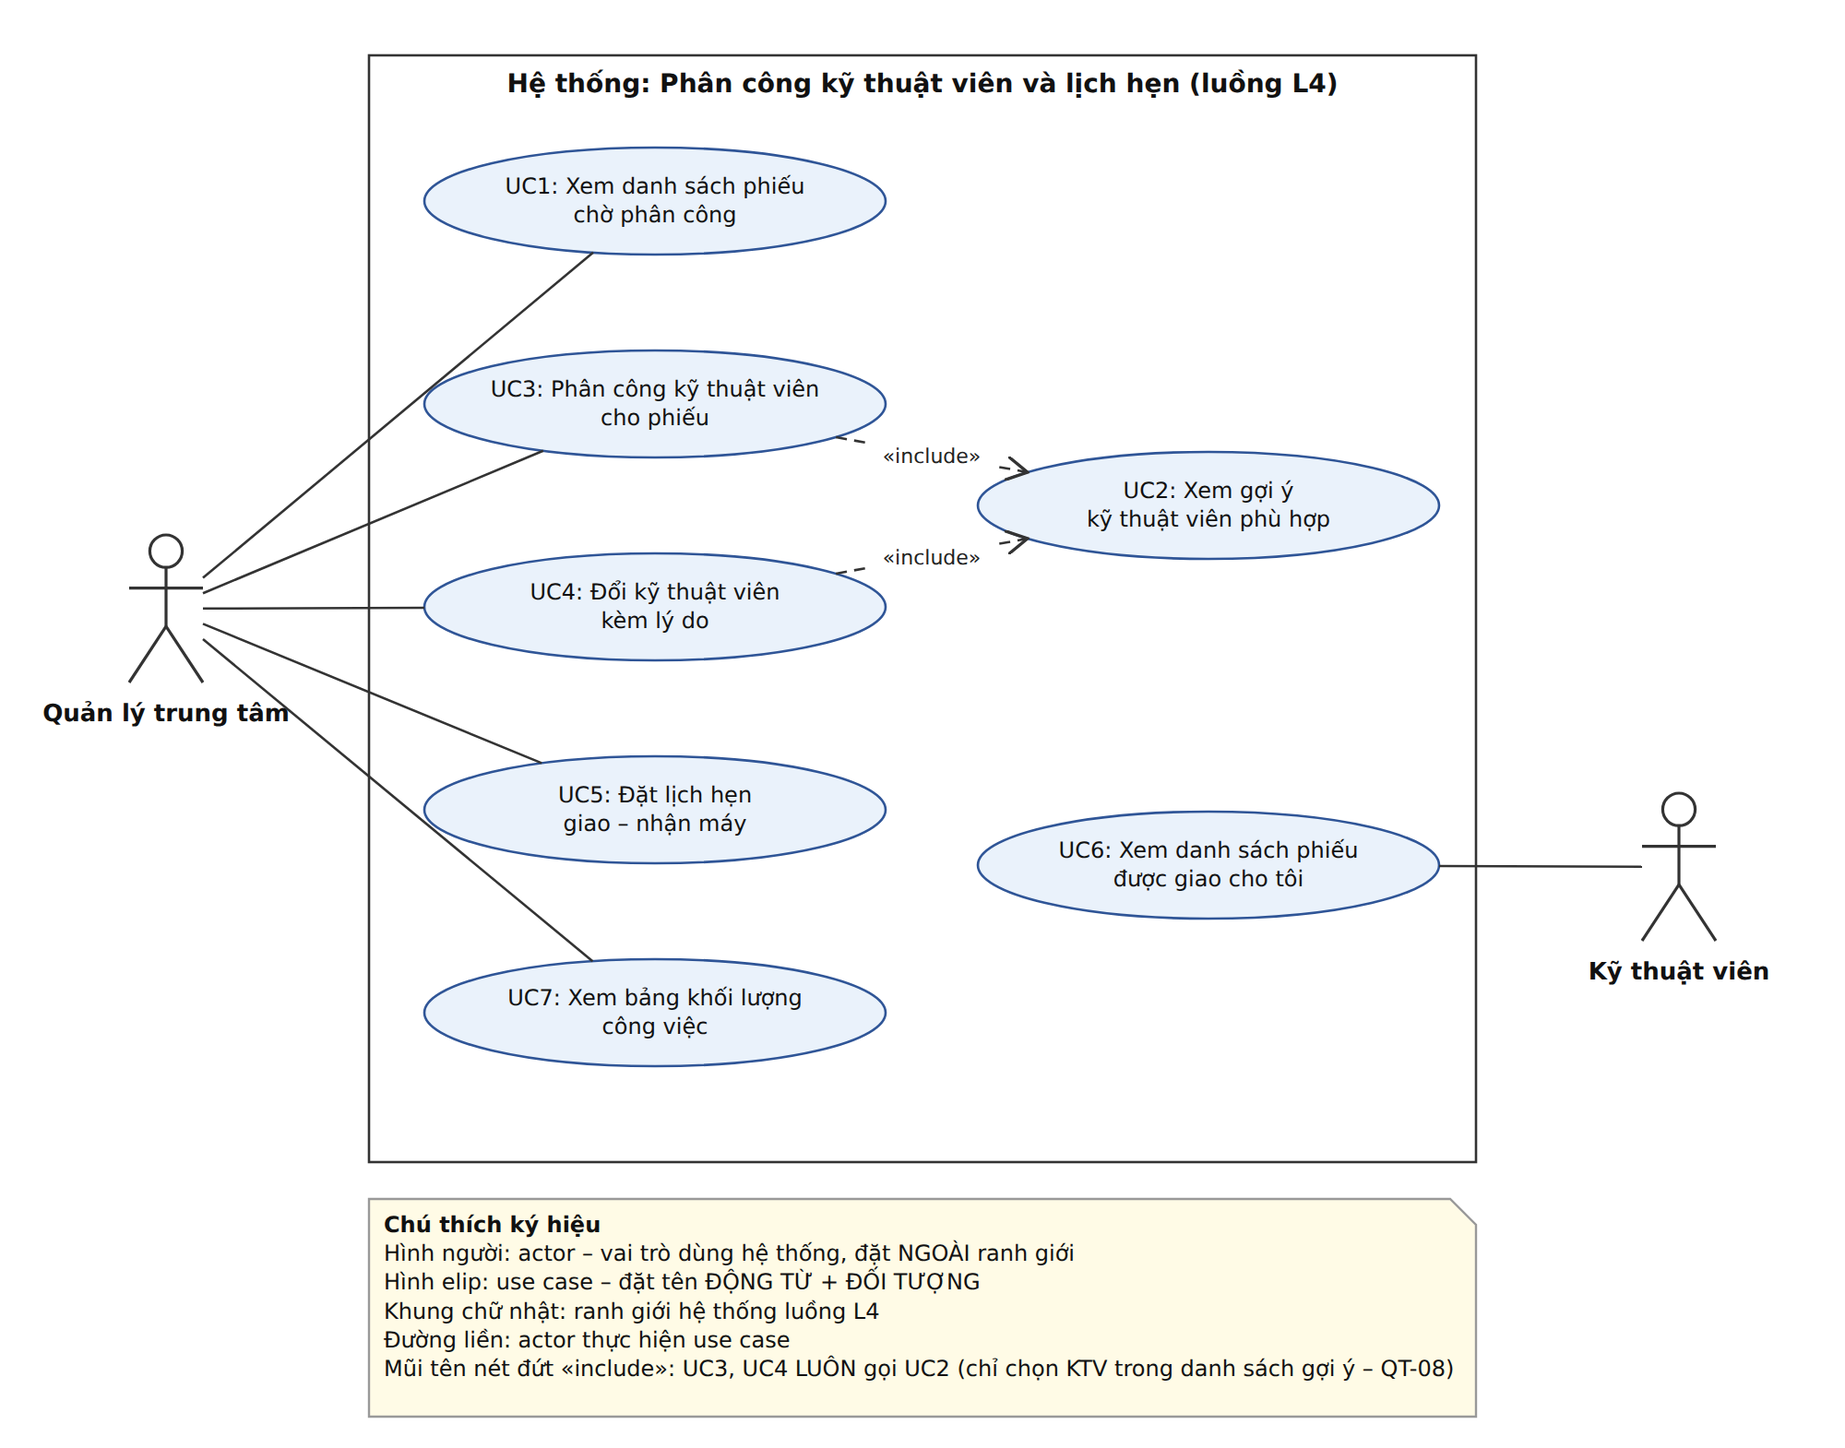
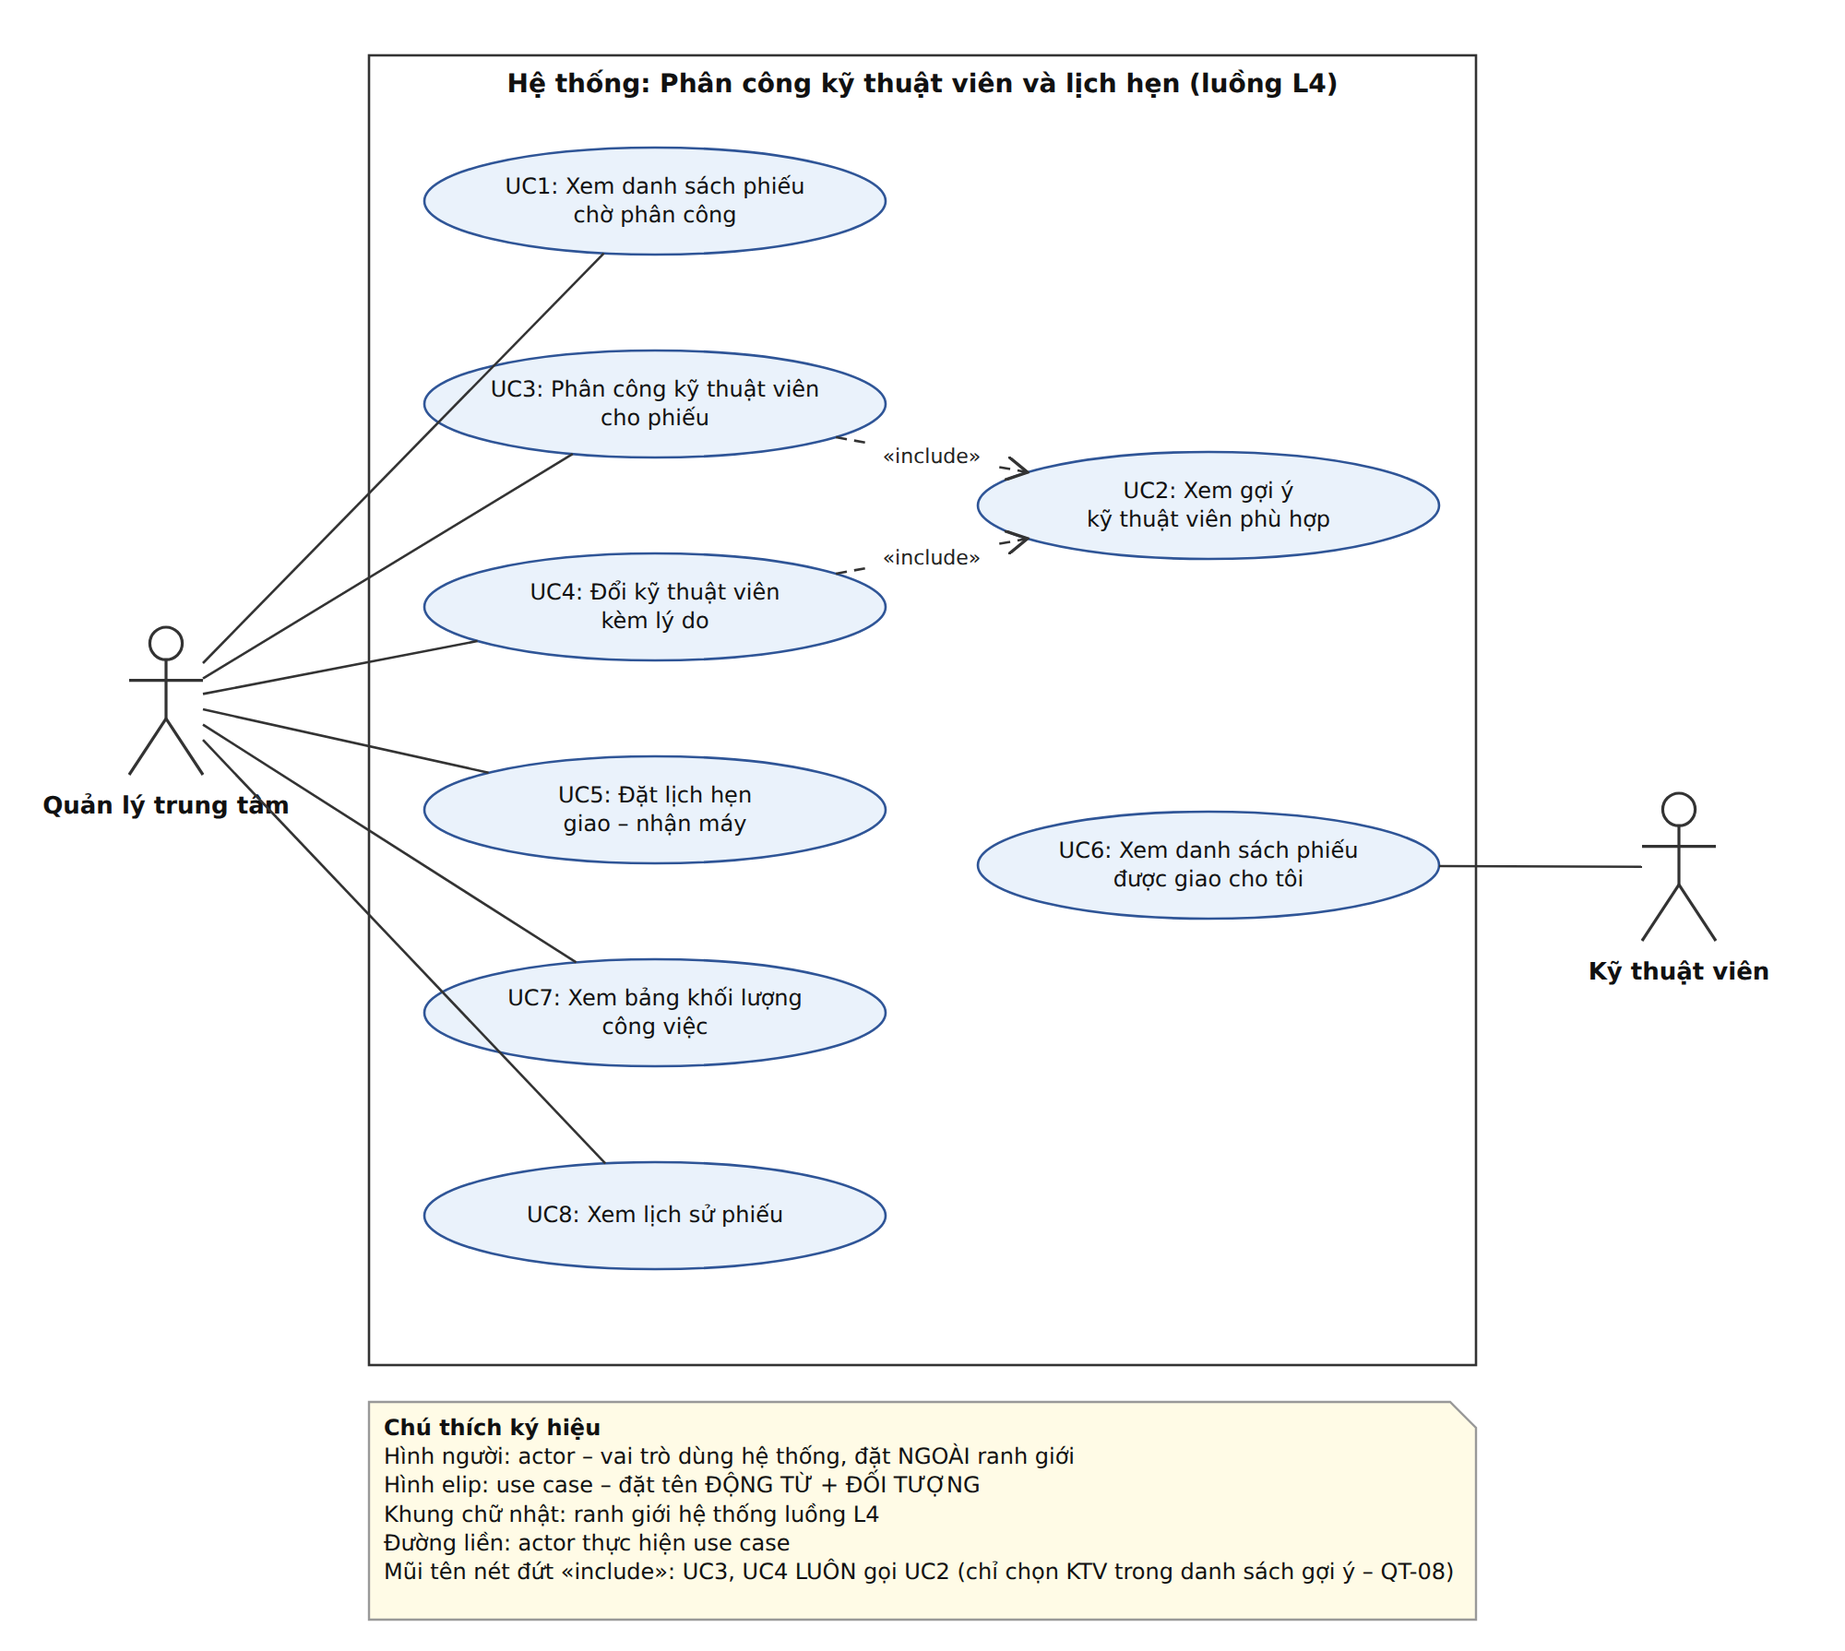
docs: complete SRS, use case and API contract for Buoi 4

diff --git a/docs/srs.md b/docs/srs.md
@@ -1,6 +1,6 @@
 # Bản SRS rút gọn – Luồng L4: Phân công kỹ thuật viên và lịch hẹn
 
-Nguyễn Thái Đức – MSSV 2374802010117 – Track SE · Phiên bản 1.1 · Rút gọn theo tinh thần ISO/IEC/IEEE 29148 (không tuân thủ đầy đủ)
+Nguyễn Thái Đức – MSSV 2374802010117 – Track SE · Phiên bản 1.2 · Rút gọn theo tinh thần ISO/IEC/IEEE 29148 (không tuân thủ đầy đủ)
 
 ## 1. Giới thiệu và phạm vi
 
@@ -37,7 +37,7 @@ W8 đăng nhập và phân quyền đầy đủ (giả lập người dùng bằ
 
 | Actor | Được làm | KHÔNG được làm |
 |---|---|---|
-| **Quản lý trung tâm** | Xem phiếu chờ phân công; xem gợi ý; phân công và đổi kỹ thuật viên; đặt lịch hẹn; xem khối lượng công việc – chỉ trong trung tâm mình | Xem hoặc phân công phiếu của trung tâm khác (QT-14); xóa phiếu, xóa lịch hẹn (QT-13) |
+| **Quản lý trung tâm** | Xem phiếu chờ phân công; xem gợi ý; phân công và đổi kỹ thuật viên; đặt lịch hẹn; xem khối lượng công việc; xem lịch sử phiếu – chỉ trong trung tâm mình | Xem hoặc phân công phiếu của trung tâm khác (QT-14); xóa phiếu, xóa lịch hẹn (QT-13) |
 | **Kỹ thuật viên** | Xem danh sách phiếu đang mở được giao cho chính mình | Tự nhận phiếu; chuyển phiếu cho người khác; xem phiếu của người khác |
 
 Khách hàng là người hưởng lợi, không thao tác trực tiếp: quản lý đặt lịch hẹn thay khách.
@@ -53,6 +53,7 @@ Khách hàng là người hưởng lợi, không thao tác trực tiếp: quản
 | **FR5** | Hệ thống cho phép tạo lịch hẹn GIAO_MAY hoặc TRA_MAY cho phiếu đã có kỹ thuật viên và từ chối lịch hẹn giao nhau với lịch hẹn DA_HEN khác của cùng kỹ thuật viên. |
 | **FR6** | Hệ thống hiển thị cho kỹ thuật viên các phiếu đang mở được giao cho họ, sắp theo hạn cam kết, đánh dấu phiếu sắp quá hạn và quá hạn. |
 | **FR7** | Hệ thống hiển thị bảng khối lượng công việc của trung tâm: mỗi kỹ thuật viên có số phiếu đang mở, số phiếu sắp quá hạn, số phiếu quá hạn tại thời điểm xem. |
+| **FR8** | Hệ thống hiển thị lịch sử của một phiếu theo thời gian: mỗi dòng gồm trạng thái trước/sau, kỹ thuật viên trước/sau, lý do, thời điểm và người thực hiện. |
 
 | Mã | User Story | MoSCoW |
 |---|---|---|
@@ -60,15 +61,18 @@ Khách hàng là người hưởng lợi, không thao tác trực tiếp: quản
 | **US2** | Là **quản lý trung tâm**, tôi muốn xem gợi ý kỹ thuật viên phù hợp với nhóm sự cố của phiếu để không giao sai người phải chuyển qua chuyển lại. | MUST |
 | **US3** | Là **quản lý trung tâm**, tôi muốn phân công một phiếu cho một kỹ thuật viên để biết chắc ai đang giữ phiếu từ lúc nào. | MUST |
 | **US4** | Là **quản lý trung tâm**, tôi muốn đổi kỹ thuật viên của phiếu kèm lý do để việc chuyển giao có vết, không mất trách nhiệm. | SHOULD |
-| **US5** | Là **quản lý trung tâm**, tôi muốn đặt lịch hẹn giao – nhận máy và được chặn khi trùng lịch kỹ thuật viên để không phải gọi hẹn lại khách. | MUST |
+| **US5** | Là **quản lý trung tâm**, tôi muốn đặt lịch hẹn giao – nhận máy không trùng với lịch hẹn khác của kỹ thuật viên để không phải gọi hẹn lại khách. | SHOULD |
 | **US6** | Là **kỹ thuật viên**, tôi muốn xem danh sách phiếu được giao cho tôi sắp theo hạn cam kết để ưu tiên xử lý phiếu sắp quá hạn trước. | SHOULD |
 | **US7** | Là **quản lý trung tâm**, tôi muốn xem số phiếu đang giữ và số phiếu quá hạn của từng kỹ thuật viên để chia việc đều và không phải đếm tay cuối tháng. | SHOULD |
+| **US8** | Là **quản lý trung tâm**, tôi muốn xem lịch sử của một phiếu (ai phân công, đổi kỹ thuật viên khi nào, vì sao) để truy được trách nhiệm khi phiếu bị quá hạn. | COULD |
 
-**Tiêu chí chấp nhận cho story MUST (Given – When – Then):**
-- **US1** – AC1: GIVEN 3 phiếu MOI hạn 10:00, 08:00, 15:00, WHEN quản lý mở danh sách, THEN thứ tự hiển thị là 08:00, 10:00, 15:00. AC2: GIVEN phiếu MOI của trung tâm khác, WHEN mở danh sách, THEN phiếu đó không xuất hiện.
-- **US2** – AC1: GIVEN phiếu MAN_HINH, KTV A (tay nghề 4, 2 phiếu mở), B (5, 2), C (3, 5), D (2, 0), WHEN xem gợi ý, THEN thứ tự B, A, C, không có D. AC2: GIVEN không ai thỏa điều kiện, WHEN xem gợi ý, THEN danh sách rỗng kèm thông báo "Không có kỹ thuật viên đủ tay nghề tại trung tâm".
-- **US3** – AC1: GIVEN phiếu MOI và KTV A trong danh sách gợi ý, WHEN xác nhận phân công, THEN phiếu chuyển DA_PHAN_CONG, có 1 dòng lịch sử MOI → DA_PHAN_CONG. AC2: GIVEN phiếu đã DA_PHAN_CONG, WHEN phân công lần nữa, THEN bị từ chối. AC3: GIVEN KTV không thỏa QT-08, WHEN phân công, THEN bị từ chối, phiếu giữ MOI.
-- **US5** – AC1: GIVEN KTV A có lịch hẹn 09:00–09:30, WHEN tạo lịch hẹn 09:15–09:45, THEN bị từ chối và hiển thị lịch hẹn trùng. AC2: GIVEN khung 10:00–10:30 trống, WHEN tạo lịch hẹn TRA_MAY, THEN lưu ở trạng thái DA_HEN. AC3: GIVEN phiếu MOI chưa có KTV, WHEN tạo lịch hẹn, THEN bị từ chối.
+**Lý do xếp mức:** 3 story MUST (US1, US2, US3) tạo thành luồng tối thiểu *thấy phiếu → được gợi ý → phân công*; thiếu một story thì L4 không chạy được. US5 để SHOULD vì có cách làm tạm (quản lý gọi điện hẹn khách như hiện nay – Mục 6.1 bước 11). US8 để COULD vì chỉ đọc dữ liệu đã ghi, không ảnh hưởng luồng chính.
+
+**Tiêu chí chấp nhận (Given – When – Then)** cho 3 story MUST, kèm US5 vì có quy tắc chặn trùng lịch cần kiểm thử. Tổng 10 tiêu chí, trong đó 6 tiêu chí *(ngoại lệ)*; mỗi story MUST có ít nhất 1 tiêu chí ngoại lệ:
+- **US1** – AC1: GIVEN trung tâm Tân Bình có 3 phiếu MOI hạn 10:00, 08:00, 15:00, WHEN chị Trâm (quản lý) mở danh sách, THEN thứ tự hiển thị là 08:00, 10:00, 15:00. AC2 *(ngoại lệ)*: GIVEN có phiếu MOI của trung tâm Quận 10, WHEN quản lý trung tâm Tân Bình mở danh sách, THEN phiếu đó không xuất hiện (QT-14).
+- **US2** – AC1: GIVEN phiếu MAN_HINH, KTV A (tay nghề 4, 2 phiếu mở), B (5, 2), C (3, 5), D (2, 0), WHEN xem gợi ý, THEN thứ tự B, A, C, không có D. AC2 *(ngoại lệ)*: GIVEN không ai thỏa điều kiện, WHEN xem gợi ý, THEN danh sách rỗng kèm thông báo "Không có kỹ thuật viên đủ tay nghề tại trung tâm".
+- **US3** – AC1: GIVEN phiếu MOI và KTV A trong danh sách gợi ý, WHEN xác nhận phân công, THEN phiếu chuyển DA_PHAN_CONG, có 1 dòng lịch sử MOI → DA_PHAN_CONG. AC2 *(ngoại lệ)*: GIVEN phiếu đã DA_PHAN_CONG, WHEN phân công lần nữa, THEN bị từ chối. AC3 *(ngoại lệ)*: GIVEN KTV không thỏa QT-08, WHEN phân công, THEN bị từ chối, phiếu giữ MOI.
+- **US5** – AC1 *(ngoại lệ)*: GIVEN KTV A có lịch hẹn 09:00–09:30, WHEN tạo lịch hẹn 09:15–09:45, THEN bị từ chối và hiển thị lịch hẹn trùng. AC2: GIVEN khung 10:00–10:30 trống, WHEN tạo lịch hẹn TRA_MAY, THEN lưu ở trạng thái DA_HEN. AC3 *(ngoại lệ)*: GIVEN phiếu MOI chưa có KTV, WHEN tạo lịch hẹn, THEN bị từ chối.
 
 ## 4. Yêu cầu phi chức năng
 
@@ -104,13 +108,14 @@ Khách hàng là người hưởng lợi, không thao tác trực tiếp: quản
 | FR2 | Gợi ý tối đa 3 kỹ thuật viên theo QT-08 | US2 | UC2 | MUST | TC03, TC04 |
 | FR3 | Phân công phiếu MOI, ghi lịch sử phiếu | US3 | UC3 | MUST | TC05, TC06, TC07 |
 | FR4 | Đổi kỹ thuật viên kèm lý do | US4 | UC4 | SHOULD | TC08, TC09 |
-| FR5 | Tạo lịch hẹn, chặn trùng lịch | US5 | UC5 | MUST | TC10, TC11, TC12 |
+| FR5 | Tạo lịch hẹn, chặn trùng lịch | US5 | UC5 | SHOULD | TC10, TC11, TC12 |
 | FR6 | Danh sách phiếu của kỹ thuật viên | US6 | UC6 | SHOULD | TC13 |
 | FR7 | Bảng khối lượng công việc | US7 | UC7 | SHOULD | TC14 |
+| FR8 | Lịch sử phiếu | US8 | UC8 | COULD | TC15 |
 
 *Cột Test case là mã dự kiến, nội dung chi tiết viết ở BT3. Mỗi tiêu chí chấp nhận ở mục 3 ứng với ít nhất một test case.*
 
-**Thay đổi so với phiên bản 1.0 (Buổi 3):** giảm từ 9 xuống 7 User Story theo đề BT1 (mục 2.1); story "kỹ thuật viên cập nhật trạng thái" chuyển thành W4, story "cảnh báo phiếu chờ linh kiện" bỏ khỏi phạm vi; lịch sử đổi kỹ thuật viên gộp vào `ticket_status_log`; bỏ yêu cầu che số điện thoại vì L4 không hiển thị thông tin khách hàng. Thứ tự US1–US7 giữ đúng như phiếu phạm vi đã nộp.
+**Thay đổi so với bản nháp Buổi 3:** giữ 8 User Story với 3 story MUST theo checklist Buổi 4 (US5 hạ xuống SHOULD, thêm US8 mức COULD); story "kỹ thuật viên cập nhật tiến độ sửa chữa" chuyển thành W4 để phạm vi chỉ còn một luồng phân công và lịch hẹn; lịch sử đổi kỹ thuật viên ghi chung vào `ticket_status_log`; gắn nhãn *(ngoại lệ)* cho các tiêu chí chấp nhận ngoại lệ.
 
 ---
 
@@ -155,7 +160,7 @@ File gốc: [`usecase.drawio`](usecase.drawio).
 | **Mục tiêu** | Hẹn khách một khung giờ giao máy hoặc trả máy mà kỹ thuật viên chắc chắn rảnh |
 | **Điều kiện trước** | Phiếu thuộc trung tâm của quản lý, là phiếu đang mở và đã có kỹ thuật viên |
 | **Điều kiện sau** | Một lịch hẹn DA_HEN được lưu, không giao nhau với lịch hẹn khác của kỹ thuật viên |
-| **Liên quan** | US5 · FR5 · QT-L4-02, QT-L4-03, QT-L4-04 · MUST |
+| **Liên quan** | US5 · FR5 · QT-L4-02, QT-L4-03, QT-L4-04 · SHOULD |
 
 **Luồng chính**
 1. Quản lý mở phiếu và chọn "Đặt lịch hẹn".

diff --git a/docs/api-contract.md b/docs/api-contract.md
@@ -2,7 +2,7 @@
 ## Phân công kỹ thuật viên và lịch hẹn giao – nhận máy bảo hành
 
 Sinh viên: Nguyễn Thái Đức – MSSV 2374802010117 – Track SE
-Tài liệu bổ sung kỹ thuật cho [SRS](srs.md). Mọi endpoint truy vết về User Story và bảng truy vết mục 6 của SRS (phiên bản 1.1).
+Tài liệu bổ sung kỹ thuật cho [SRS](srs.md). Mọi endpoint truy vết về User Story và bảng truy vết mục 6 của SRS (phiên bản 1.2).
 
 ---
 
@@ -18,6 +18,7 @@ Tài liệu bổ sung kỹ thuật cho [SRS](srs.md). Mọi endpoint truy vết 
 | E6 | PUT | `/api/tickets/{ticket_id}/assignment` | Đổi kỹ thuật viên kèm lý do | US4 | FR4 | Quản lý |
 | E7 | GET | `/api/me/tickets` | Danh sách phiếu đang mở của kỹ thuật viên đang dùng | US6 | FR6 | Kỹ thuật viên |
 | E8 | GET | `/api/workload` | Bảng khối lượng công việc của trung tâm | US7 | FR7 | Quản lý |
+| E9 | GET | `/api/tickets/{ticket_id}/history` | Lịch sử phiếu: chuyển trạng thái, đổi kỹ thuật viên | US8 | FR8 | Quản lý |
 
 Các endpoint `GET /` và `GET /db-check` là smoke test hạ tầng của Buổi 2, không phục vụ User Story nên **không thuộc hợp đồng này**.
 Việc kỹ thuật viên cập nhật tiến độ sửa chữa là W4 trong SRS nên không có endpoint.
@@ -33,6 +34,7 @@ Việc kỹ thuật viên cập nhật tiến độ sửa chữa là W4 trong SR
   - Trạng thái phiếu: `MOI`, `DA_PHAN_CONG`, `DANG_XU_LY`, `CHO_LINH_KIEN`, `HOAN_TAT`, `DA_DONG`, `DA_HUY`
   - Mức ưu tiên: `CAO`, `TRUNG_BINH`, `THAP`
   - Loại lịch hẹn: `GIAO_MAY`, `TRA_MAY` · Trạng thái lịch hẹn: `DA_HEN`, `DA_HUY`, `HOAN_THANH`
+- **Dữ liệu mẫu trong JSON** lấy theo case study: trung tâm bảo hành Quận Tân Bình (quản lý: chị Trâm, Mục 4), mã phiếu dạng `BH000123/2026` (Mục 8), nhóm sự cố và mức ưu tiên theo Bảng 3.1, hạn cam kết tính theo QT-04 (CAO = 24 giờ).
 - **Phân trang:** `page` (bắt đầu từ 1), `size` (mặc định 20, tối đa 100). Response danh sách kèm `page`, `size`, `total`.
 - **Cấu trúc lỗi thống nhất:**
   ```json
@@ -72,6 +74,7 @@ Trung tâm **lấy theo người dùng**, không nhận từ query, để bảo 
 **Response 200 OK**
 ```json
 {
+  "center_id": 4, "center_name": "Trung tâm bảo hành Quận Tân Bình",
   "page": 1, "size": 20, "total": 2,
   "items": [
     {
@@ -232,13 +235,14 @@ Lịch hẹn tự gắn với kỹ thuật viên **đang giữ phiếu** (QT-L4-
 
 ---
 
-## 4. Endpoint mức SHOULD (tóm tắt)
+## 4. Endpoint mức SHOULD và COULD (tóm tắt)
 
 | Endpoint | Request | Response thành công | Response lỗi chính |
 |---|---|---|---|
 | **E6** PUT `/api/tickets/{id}/assignment` | `{ "technician_id": 7, "reason": "KTV B nghỉ phép đột xuất" }` | 200 – phiếu với `technician_id` mới, dòng `status_log` có `from_technician_id`, `to_technician_id`, `note` = lý do; lịch hẹn chưa diễn ra bị hủy (QT-L4-05) | 400 thiếu lý do · 409 phiếu không đang mở hoặc chọn trùng KTV hiện tại · 422 KTV mới không thỏa QT-08 |
 | **E7** GET `/api/me/tickets` | Query `page`, `size` | 200 – danh sách phiếu đang mở của KTV, sắp theo `due_date`, có `is_due_soon`, `is_overdue` | 401 thiếu người dùng · 403 không phải KTV |
-| **E8** GET `/api/workload` | Không | 200 – `[{ technician_id, full_name, open_ticket_count, due_soon_count, overdue_count }]` | 403 không phải Quản lý |
+| **E9** GET `/api/tickets/{id}/history` | Không | 200 – `[{ log_id, from_status, to_status, from_technician_id, to_technician_id, note, changed_at, changed_by }]` sắp theo `changed_at` tăng dần | 403 phiếu thuộc trung tâm khác · 404 phiếu không tồn tại |
+| **E8** GET `/api/workload` | Không | 200 – `[{ technician_id, full_name, open_ticket_count, due_soon_count, overdue_count }]` | 401 thiếu người dùng · 403 không phải Quản lý |
 
 ---
 
@@ -286,11 +290,11 @@ Lịch hẹn tự gắn với kỹ thuật viên **đang giữ phiếu** (QT-L4-
 
 ## 6. Xác thực và phân quyền
 
-Phiên bản BT1–BT2 **giả lập** người dùng (W8 trong SRS): mỗi request gửi header `X-Employee-Id` với mã nhân viên có trong bảng `employee`. Hệ thống tra vai trò và trung tâm từ mã này; không tin vai trò do client gửi lên.
+Phiên bản hiện tại **giả lập** người dùng (W8 trong SRS): mỗi request gửi header `X-Employee-Id` với mã nhân viên có trong bảng `employee`. Hệ thống tra vai trò và trung tâm từ mã này; không tin vai trò do client gửi lên.
 
 | Endpoint | Quản lý trung tâm | Kỹ thuật viên |
 |---|---|---|
-| E1, E2, E3, E4, E5, E6, E8 | ✅ trong trung tâm mình | ❌ 403 |
+| E1, E2, E3, E4, E5, E6, E8, E9 | ✅ trong trung tâm mình | ❌ 403 |
 | E7 | ❌ 403 | ✅ phiếu của chính mình |
 
 Thiếu header hoặc mã không tồn tại → **401**. Đúng vai trò nhưng khác trung tâm → **403** (QT-14).
